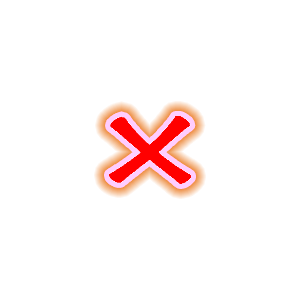
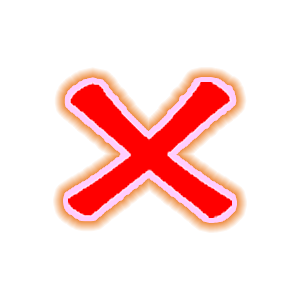
поменяли размер некоторых кнопок

Changed region(s): [[0.18, 0.21, 0.84, 0.78]]

diff --git a/ArtCritic Desctop/ArtCritic Desctop/MainWindow.xaml b/ArtCritic Desctop/ArtCritic Desctop/MainWindow.xaml
@@ -158,7 +158,7 @@
 
             <Image x:Name="Accept_Answer_Video" HorizontalAlignment="Left" Margin="12,10,0,0" Grid.Row="3" VerticalAlignment="Top" Height="52" Width="81" MouseLeftButtonDown="Accept_Answer_Video_Click" Grid.Column="2" />
 
-            <TextBox HorizontalAlignment="Center" x:Name="Answer_Video_Texbox"  Grid.Row="3" TextWrapping="Wrap" VerticalAlignment="Top" Width="416" Height="26" Margin="0,13,0,0" Grid.Column="1"/>
+            <TextBox HorizontalAlignment="Left" x:Name="Answer_Video_Texbox"  Grid.Row="3" TextWrapping="Wrap" VerticalAlignment="Center" Width="416" Height="26" Margin="10,0,0,0" Grid.Column="1"/>
 
             <Image  x:Name="Exit_For_Video" MouseLeftButtonDown="Exit_Click" HorizontalAlignment="Left" Margin="9,15,0,0" VerticalAlignment="Top" Height="49" Width="65" Grid.Column="3"/>
 
@@ -187,15 +187,15 @@
 
             </Grid.RowDefinitions>
 
-            <Image Name="Image_Background"  Stretch="Fill" Grid.RowSpan="4" Grid.ColumnSpan="4" />
+            <Image Name="Image_Background"  Stretch="Fill" Grid.RowSpan="4" Grid.ColumnSpan="4" d:IsHidden="True" />
 
-            <TextBox HorizontalAlignment="Center" Name="Answer_Image_Texbox" Grid.Row="3" TextWrapping="Wrap" VerticalAlignment="Top" Width="416" Height="26" Margin="0,13,0,0" Grid.Column="1"/>
+            <TextBox HorizontalAlignment="Left" Name="Answer_Image_Texbox" Grid.Row="3" TextWrapping="Wrap" VerticalAlignment="Center" Width="416" Height="26" Margin="10,0,0,0" Grid.Column="1" d:IsHidden="True"/>
 
-            <Image  Name="pice" Margin="0,32,0,2" Grid.Row="1" Grid.ColumnSpan="4" />
+            <Image  Name="pice" Margin="0,32,0,2" Grid.Row="1" Grid.ColumnSpan="4" d:IsHidden="True" />
 
-            <Image MouseLeftButtonDown="exit_pic_MouseLeftButtonDown"  Name="exit_pic"  HorizontalAlignment="Left" Margin="9,15,0,0" VerticalAlignment="Top" Height="45" Width="55" Grid.Column="3"/>
+            <Image MouseLeftButtonDown="exit_pic_MouseLeftButtonDown"  Name="exit_pic"  HorizontalAlignment="Left" Margin="9,15,0,0" VerticalAlignment="Top" Height="45" Width="55" Grid.Column="3" d:IsHidden="True"/>
 
-            <Image Name="Accept_Answer_Image" HorizontalAlignment="Left" Margin="12,10,0,0" Grid.Row="3" VerticalAlignment="Top" Height="52" Width="81" MouseLeftButtonDown="Accept_Answer_Image_Click" Grid.Column="2"/>
+            <Image Name="Accept_Answer_Image" HorizontalAlignment="Left" Margin="12,10,0,0" Grid.Row="3" VerticalAlignment="Top" Height="52" Width="81" MouseLeftButtonDown="Accept_Answer_Image_Click" Grid.Column="2" d:IsHidden="True"/>
 
         </Grid>
 
